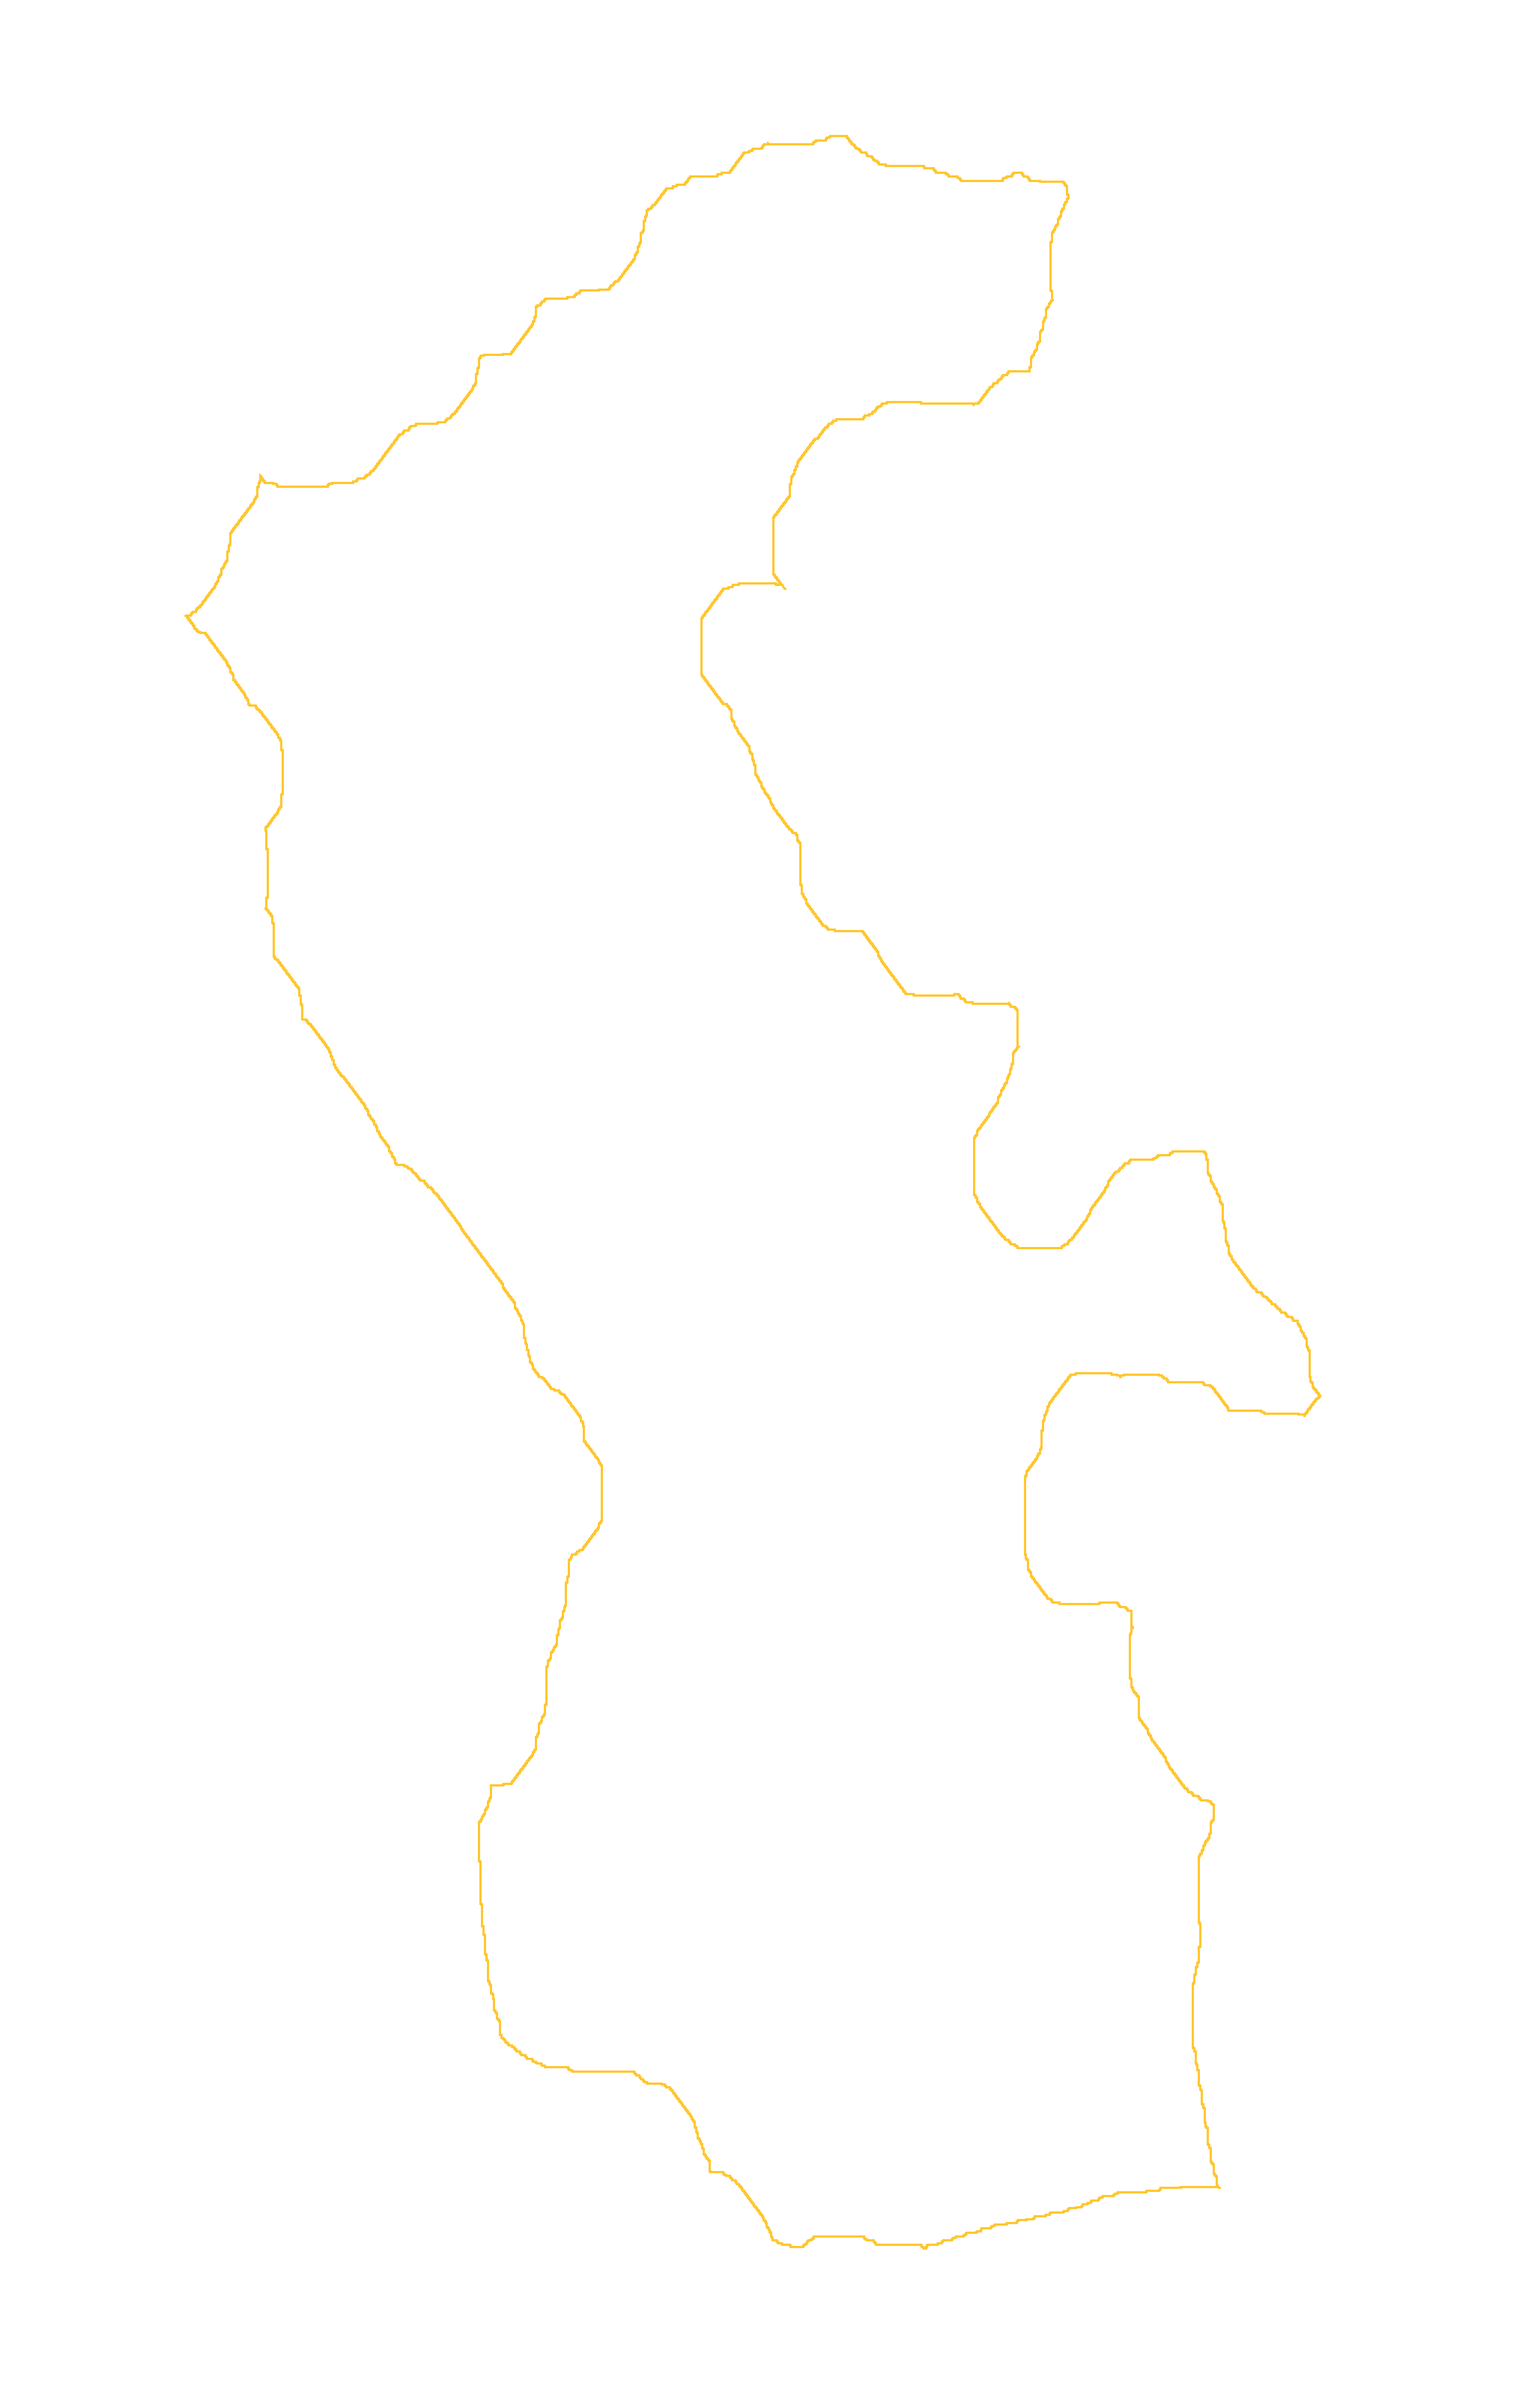
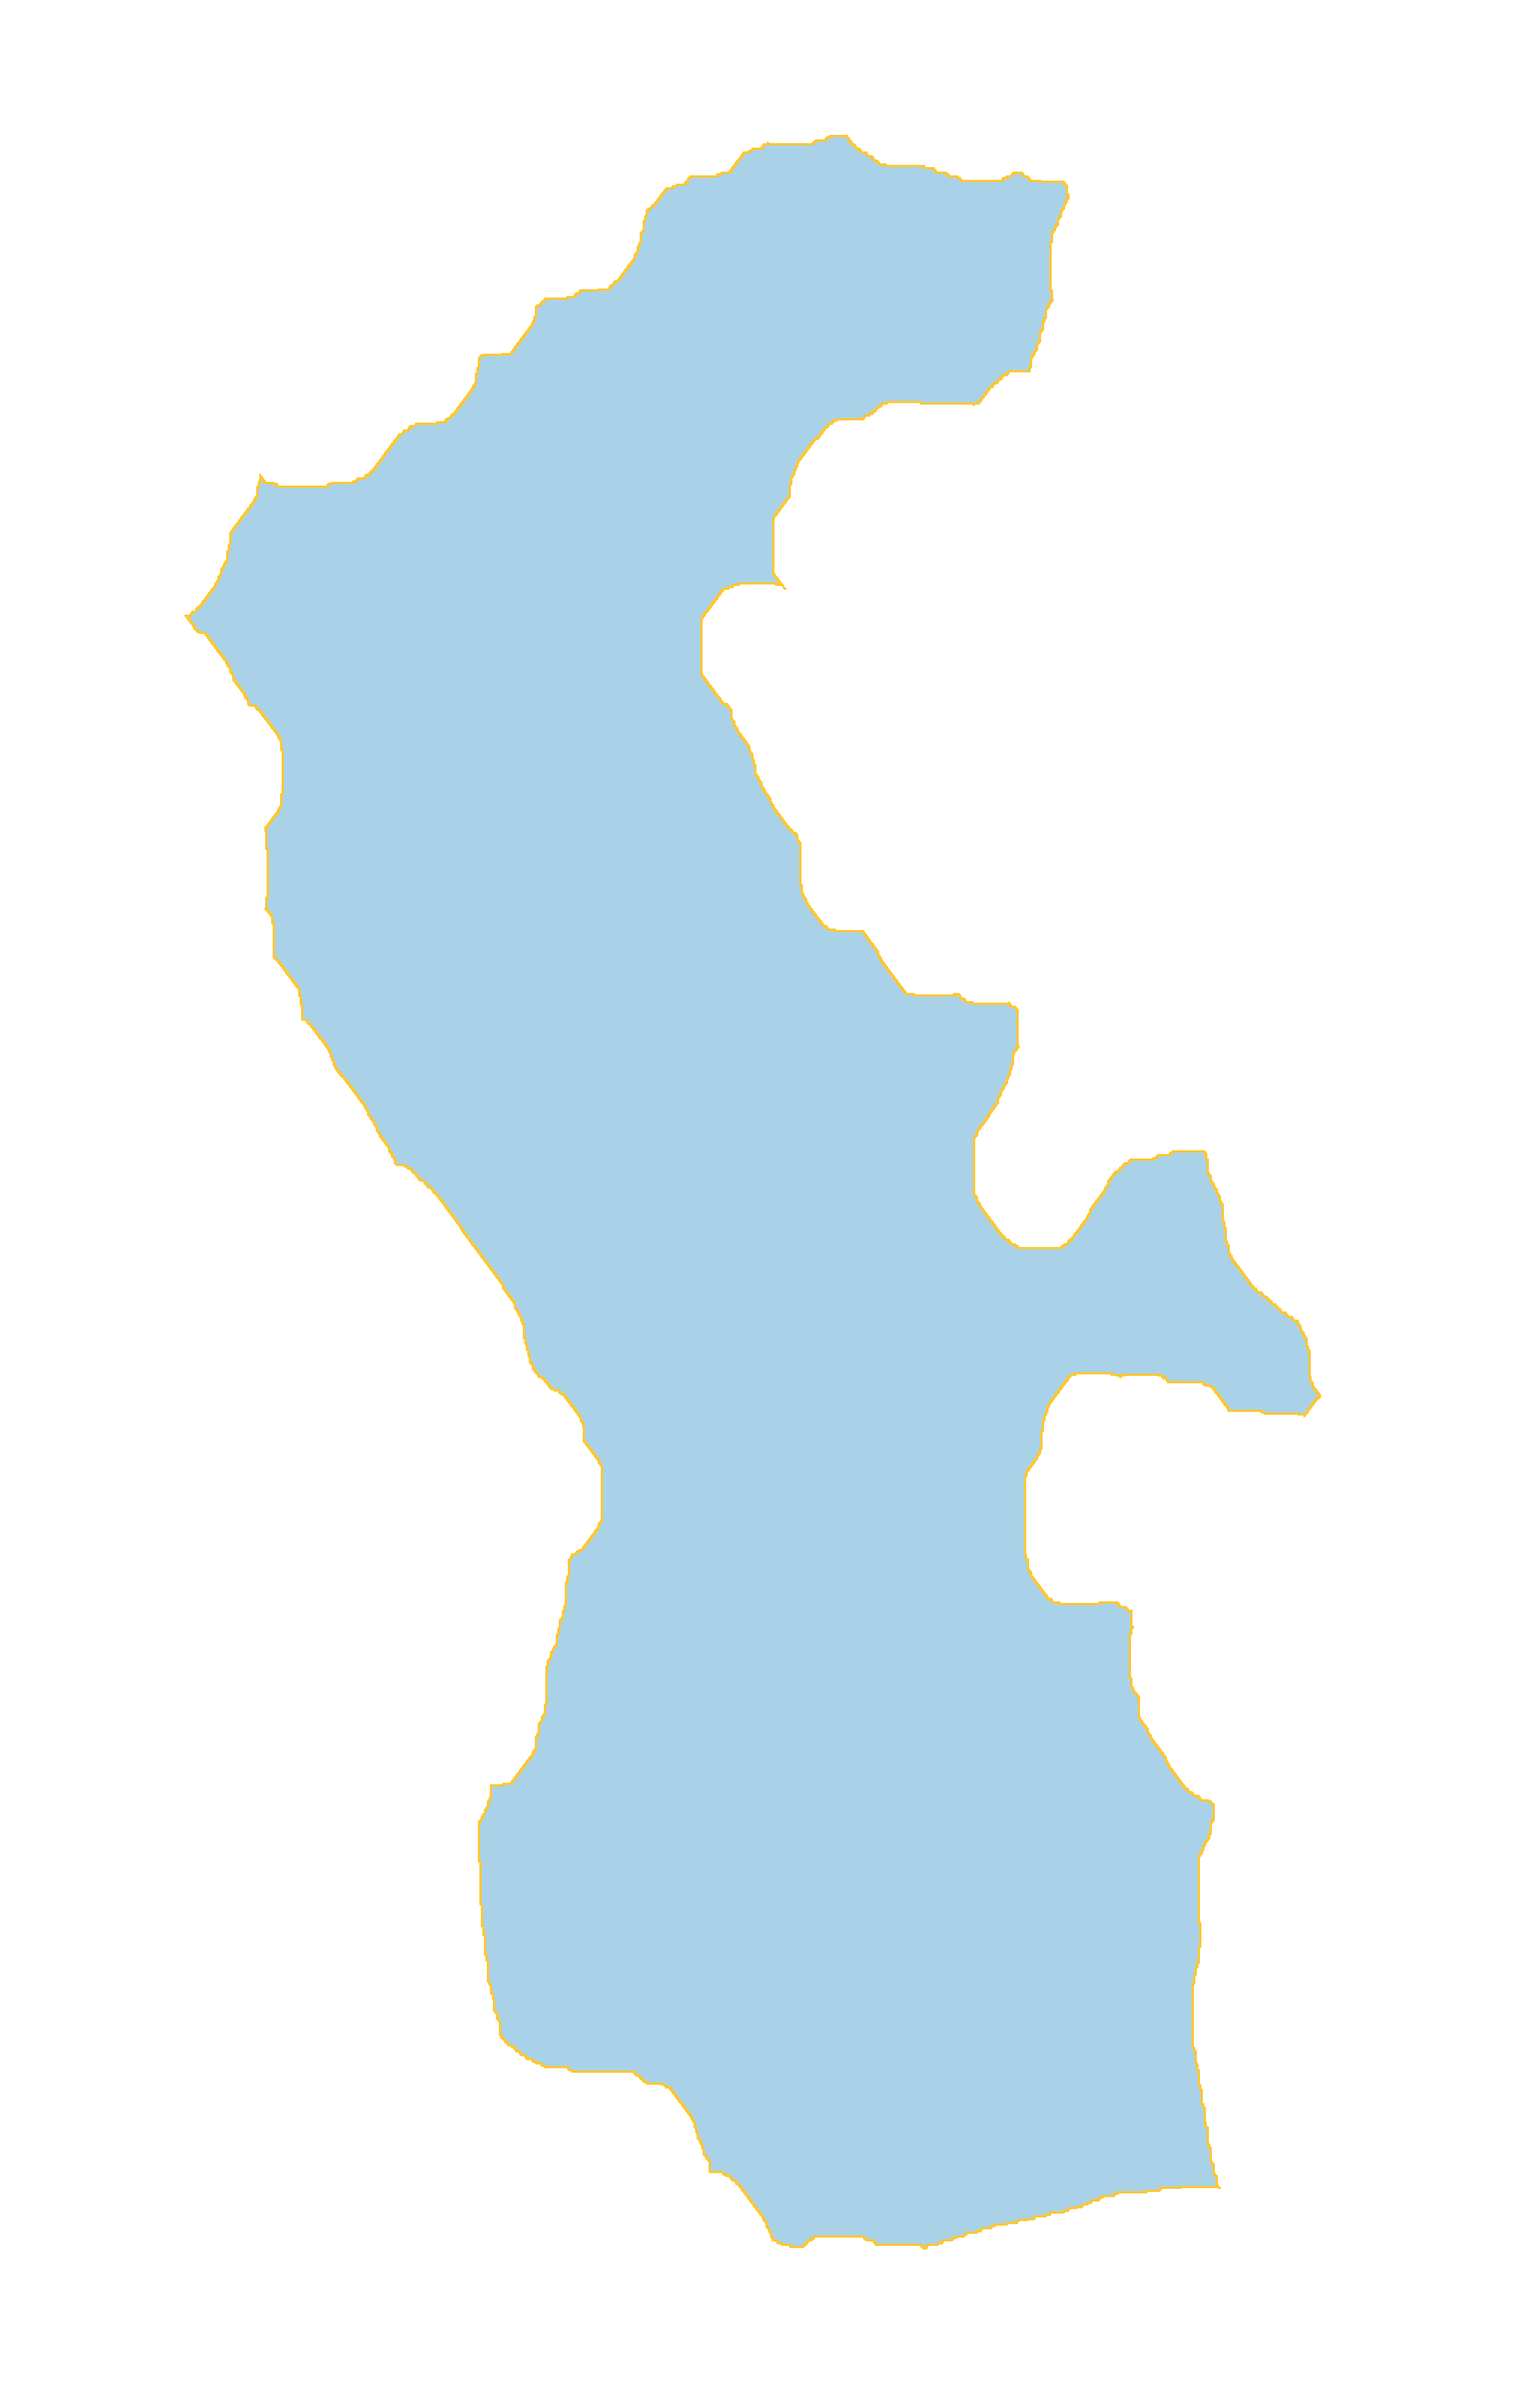
Render full scientific water heatmaps

diff --git a/app/CaspianTwin.tsx b/app/CaspianTwin.tsx
@@ -74,7 +74,7 @@ const CASPIAN_BBOX: BBox = [46.0, 36.0, 55.8, 47.4];
 const REGIONAL_BASEMAP_BBOX: BBox = [25, 25, 75, 60];
 const YEARS = [2020, 2021, 2022, 2023, 2024, 2025, 2026] as const;
 const DATA_API_BASE = (process.env.NEXT_PUBLIC_NAUTIKOS_DATA_URL ?? "").replace(/\/$/, "");
-const WATER_FILTERS: ViewKey[] = ["optical", "waterOptical", "water", "suspendedMatter", "oil", "shoreline"];
+const WATER_FILTERS: ViewKey[] = ["optical", "waterOptical", "water", "suspendedMatter", "chlorophyll", "oil", "shoreline"];
 const LAND_FILTERS: ViewKey[] = ["optical", "shoreline", "vegetation", "soil"];
 const PRODUCT_BY_LAYER: Record<LayerKey, string> = {
   "true-color": "rgb",
@@ -234,7 +234,7 @@ const allFilters: FilterDefinition[] = [
 // Only independently reproducible local products are shown. Sentinel-3
 // chlorophyll/TSM will be enabled after its L2 WATER archive is ingested;
 // Sentinel-1 oil-candidate screening is already backed by a fixed SAR set.
-const SUPPORTED_FILTERS = new Set<ViewKey>(["optical", "waterOptical", "shoreline", "water", "suspendedMatter", "oil", "vegetation", "soil"]);
+const SUPPORTED_FILTERS = new Set<ViewKey>(["optical", "waterOptical", "shoreline", "water", "suspendedMatter", "chlorophyll", "oil", "vegetation", "soil"]);
 const FILTER_COPY: Partial<Record<ViewKey, Pick<FilterDefinition, "label" | "subtitle" | "explanation">>> = {
   optical: {
     label: "Реальный снимок Каспия",
@@ -260,6 +260,11 @@ const FILTER_COPY: Partial<Record<ViewKey, Pick<FilterDefinition, "label" | "sub
     label: "Взвесь в воде",
     subtitle: "Sentinel‑2 L2A · Red/Green · июль · 10 м",
     explanation: "Относительный сигнал взвешенного вещества рассчитан из согласованных красного и зелёного каналов. Это сравнительный приоритет для обследования, а не лабораторная концентрация.",
+  },
+  chlorophyll: {
+    label: "Скрининг цветения воды",
+    subtitle: "Sentinel‑2 L2A · Green/Red/Blue proxy · июль · 10 м",
+    explanation: "Непрерывная шкала показывает относительный избыток зелёного сигнала внутри маски воды. Жёлтые и красные зоны — приоритет повторной проверки на цветение; это оптический скрининг, а не лабораторная концентрация хлорофилла.",
   },
   oil: {
     label: "Кандидаты нефтяной плёнки",
@@ -421,7 +426,7 @@ function updateAnnualTiles(map: MapLibreMap, year: number, layer: LayerKey, vers
   }, "place-labels");
 
   if (layer !== "true-color") {
-    const hasAlignedOverview = ["olci-true-color", "water-quality", "suspended-matter", "shoreline"].includes(layer);
+    const hasAlignedOverview = ["olci-true-color", "water-quality", "suspended-matter", "chlorophyll", "shoreline"].includes(layer);
     // SAR oil screening is meaningful only on a local scale. Do not launch a
     // basin-wide cold render that will time out and leave an apparently broken
     // filter; MapLibre requests it as soon as the user zooms into the coast.

diff --git a/scripts/build_aligned_overview_filters.py b/scripts/build_aligned_overview_filters.py
@@ -18,12 +18,40 @@ ROOT = Path(__file__).resolve().parents[1] / "public" / "overviews" / "annual"
 WIDTH = 2048
 
 
-def colour_ramp(score: np.ndarray, mask: np.ndarray) -> np.ndarray:
-    red = np.clip(2.2 * score - 0.25, 0, 1)
-    green = np.clip(1.35 - np.abs(score - 0.5) * 2.3, 0, 1)
-    blue = np.clip(1.15 - 2.0 * score, 0, 1)
-    alpha = np.where(mask, 38 + score * 180, 0)
-    return np.dstack((red * 255, green * 255, blue * 255, alpha)).astype(np.uint8)
+RAMP_STOPS = np.array([0.0, 0.18, 0.38, 0.58, 0.78, 1.0], dtype=np.float32)
+RAMP_RGB = np.array(
+    [
+        (28, 50, 156),
+        (0, 159, 225),
+        (0, 204, 153),
+        (197, 231, 45),
+        (255, 183, 0),
+        (211, 32, 32),
+    ],
+    dtype=np.float32,
+)
+
+
+def fixed_score(value: np.ndarray, low: float, high: float) -> np.ndarray:
+    """Use the same physical display interval for every year."""
+    return np.clip((value - low) / (high - low), 0, 1)
+
+
+def smooth(value: np.ndarray, radius: float = 2.4) -> np.ndarray:
+    encoded = np.clip(value * 255, 0, 255).astype(np.uint8)
+    image = Image.fromarray(encoded, "L").filter(ImageFilter.GaussianBlur(radius))
+    return np.asarray(image, dtype=np.float32) / 255.0
+
+
+def colour_ramp(score: np.ndarray, mask: np.ndarray, alpha: int = 218) -> np.ndarray:
+    """Continuous scientific-style blue/cyan/yellow/red raster."""
+    score = np.clip(score, 0, 1)
+    rgb = np.empty((*score.shape, 3), dtype=np.float32)
+    for channel in range(3):
+        rgb[..., channel] = np.interp(score, RAMP_STOPS, RAMP_RGB[:, channel])
+    rgba = np.dstack((rgb, np.where(mask, alpha, 0))).astype(np.uint8)
+    rgba[~mask] = 0
+    return rgba
 
 
 def build_year(year_root: Path) -> None:
@@ -43,21 +71,24 @@ def build_year(year_root: Path) -> None:
 
     red, green, blue = (rgb[..., index] for index in range(3))
     ndti = (red - green) / (red + green + 1.0)
-    ndti_8 = np.clip((ndti + 0.28) * (255.0 / 0.52), 0, 255).astype(np.uint8)
-    ndti_smooth = np.asarray(
-        Image.fromarray(ndti_8, "L").filter(ImageFilter.GaussianBlur(1.2)),
-        dtype=np.float32,
-    )
-    ndti_smooth = ndti_smooth * (0.52 / 255.0) - 0.28
-    turbidity = np.clip((ndti_smooth + 0.16) / 0.28, 0, 1)
+    # Deep optical water is near the blue end; high red/green response moves
+    # through cyan/yellow to red. Unlike the old thresholded overlay, every
+    # valid water pixel receives a readable value like a scientific heatmap.
+    turbidity = smooth(fixed_score(ndti, -0.48, 0.02))
     Image.fromarray(colour_ramp(turbidity, water), "RGBA").save(
         year_root / "water-quality.webp", "WEBP", lossless=True, method=6
     )
 
     ratio = red / (green + 1.0)
-    suspended = np.clip((ratio - 0.68) / 0.62, 0, 1)
+    suspended = smooth(fixed_score(ratio, 0.28, 1.08))
     Image.fromarray(colour_ramp(suspended, water), "RGBA").save(
         year_root / "suspended-matter.webp", "WEBP", lossless=True, method=6
+    )
+
+    green_excess = (2.0 * green - red - blue) / (red + green + blue + 1.0)
+    chlorophyll_proxy = smooth(fixed_score(green_excess, -0.08, 0.48))
+    Image.fromarray(colour_ramp(chlorophyll_proxy, water), "RGBA").save(
+        year_root / "chlorophyll.webp", "WEBP", lossless=True, method=6
     )
 
     # Keep transparent pixels genuinely empty. Some WebP renderers retain RGB
@@ -74,6 +105,7 @@ def build_year(year_root: Path) -> None:
     eroded = np.asarray(water_image.filter(ImageFilter.MinFilter(7))) > 0
     edge = water & ~eroded
     shoreline = np.zeros((*water.shape, 4), dtype=np.uint8)
+    shoreline[water] = (16, 129, 190, 92)
     shoreline[edge] = (255, 194, 32, 235)
     Image.fromarray(shoreline, "RGBA").save(
         year_root / "shoreline.webp", "WEBP", lossless=True, method=6
